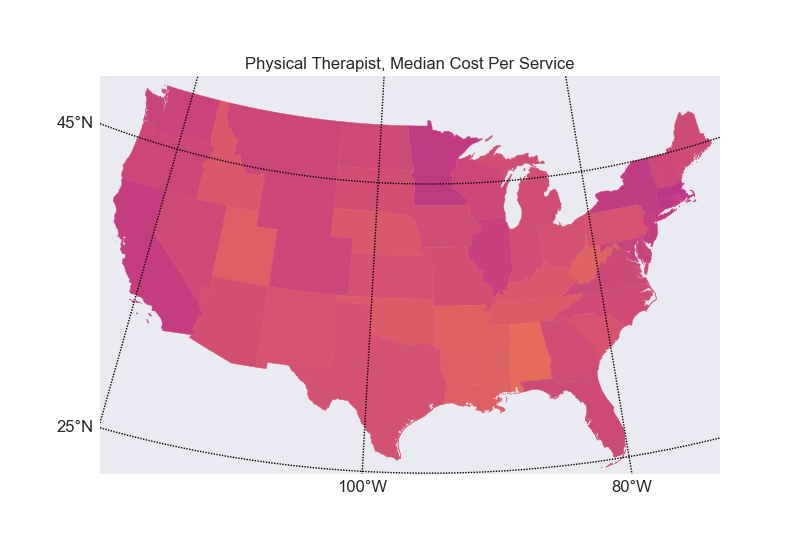
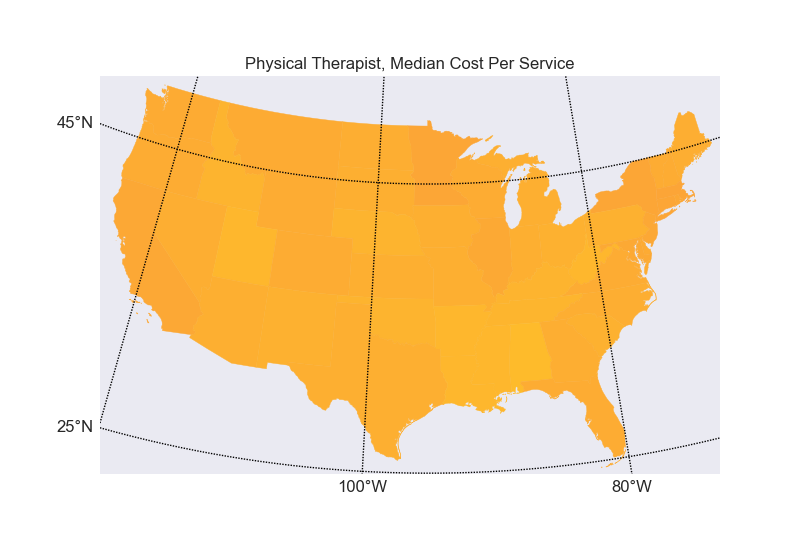
use same scale for state maps

diff --git a/cms_explore.py b/cms_explore.py
@@ -240,17 +240,19 @@ def calc_by_states(df):
 #   print(bmap.states_info[0].keys())
     im = p_group.ix['Internal Medicine']['pay_per_service']['median']
     print('Internal Medicine\n', im)
-    mmin, mmax = (0.9*im.min(), 1.1*im.max())  # should all be same scale?
+    mmin, mmax = 1.0, 2.7
+#   mmin, mmax = (0.9*im.min(), 1.1*im.max())  # should all be same scale
+    print('min %g, max %g; calc min %g, max %g' % (mmin, mmax, im.min(), im.max()))
     make_state_map(bmap, im, mmin, mmax, plotdir, 'cost_per_service_internal_medicine', 'Internal Medicine, Median Cost Per Service')
 
     im = p_group.ix['General Surgery']['pay_per_service']['median']
     print('General Surgery\n', im)
-    mmin, mmax = (0.9*im.min(), 1.1*im.max())  # should all be same scale?
+    print('min %g, max %g; calc min %g, max %g' % (mmin, mmax, im.min(), im.max()))
     make_state_map(bmap, im, mmin, mmax, plotdir, 'cost_per_service_general_surgery', 'General Surgery, Median Cost Per Service')
 
     im = p_group.ix['Physical Therapist']['pay_per_service']['median']
     print('Physical Therapist\n', im)
-    mmin, mmax = (0.9*im.min(), 1.1*im.max())  # should all be same scale?
+    print('min %g, max %g; calc min %g, max %g' % (mmin, mmax, im.min(), im.max()))
     make_state_map(bmap, im, mmin, mmax, plotdir, 'cost_per_service_physical_therapist', 'Physical Therapist, Median Cost Per Service')
 
 

diff --git a/state_maps.py b/state_maps.py
@@ -78,7 +78,7 @@ def set_colors(df, states, mmin, mmax):
     "set colors for each state"
     cmap = plt.cm.plasma
 #   cmap = plt.cm.hot
-#   cmap = plt.cm.coolwarm
+#   cmap = plt.cm.gist_heat
 # issue for rare providers: state may not be in df.ix
     for state,val in states.items():
         dval = df.ix[states[state]['abbr']]
